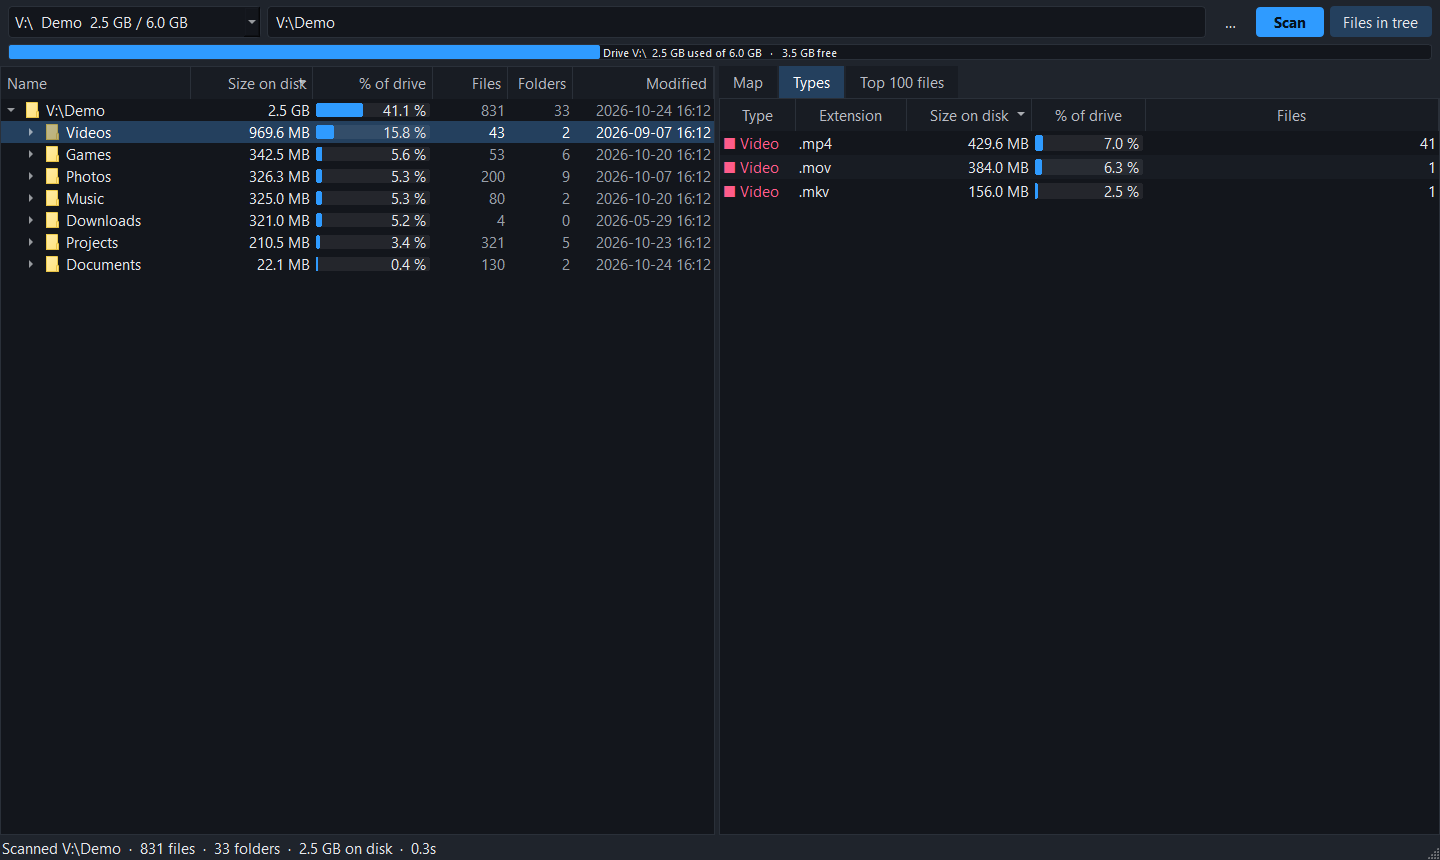
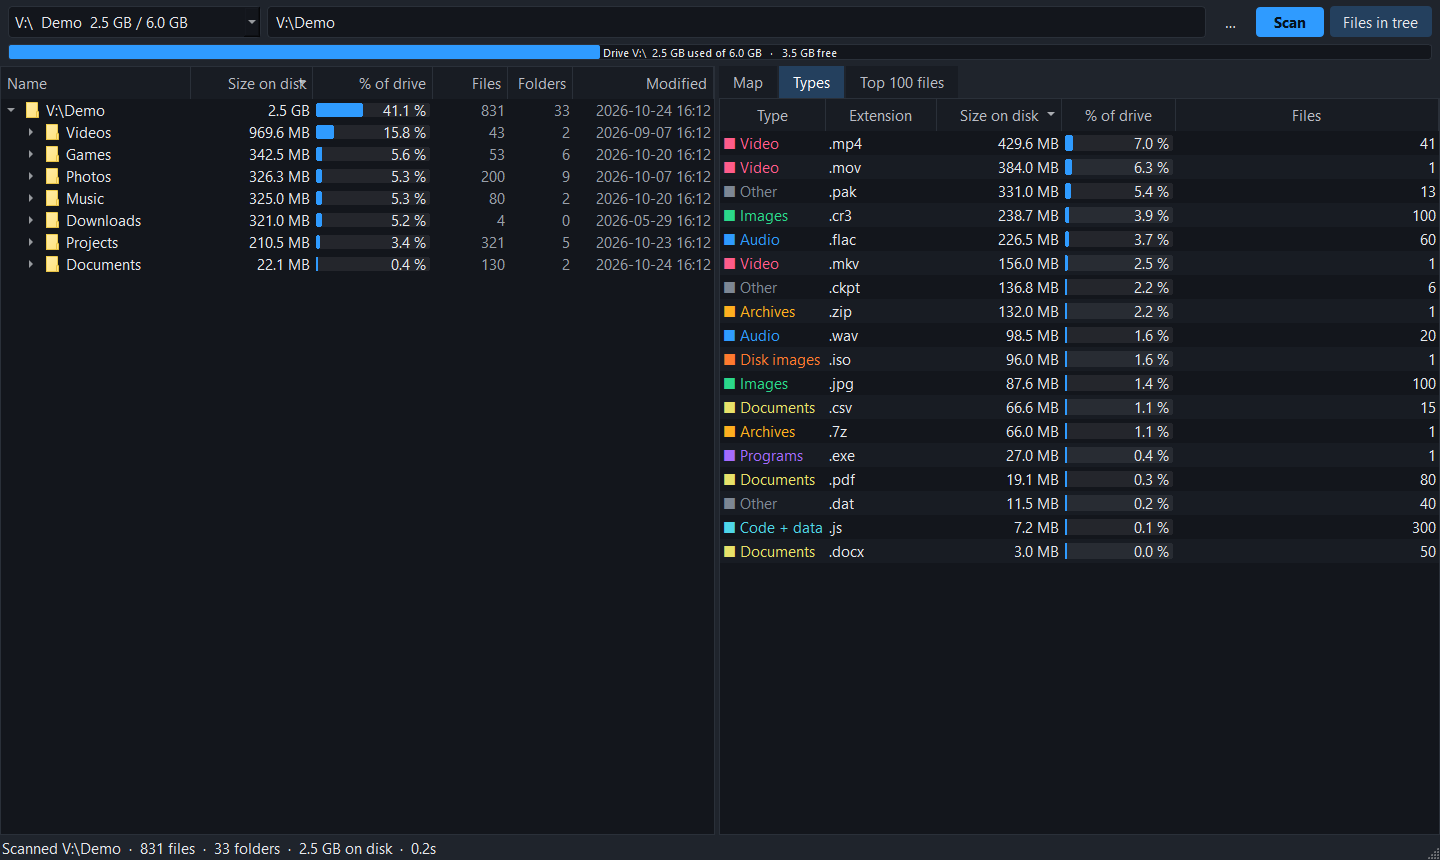
Saved Modified column widened for a whole date; Types and Top shots of the whole folder
- A tree layout saved by 1.2 has the Modified column at 120 px, which cut every
  date at "16:...". After the saved layout is restored it is widened to a whole
  date and time (a wider width the user chose is kept), as the Size column is.
- tools/screenshots.py takes the List shot last: it opens the Videos folder, and
  types.png and top.png were of that folder only. Retaken.

diff --git a/tests/app/test_list_view.py b/tests/app/test_list_view.py
@@ -120,6 +120,19 @@ def test_headers_sit_over_their_columns_and_a_date_fits(listed):
     assert w.tree.columnWidth(bf.C_MOD) >= w.tree.fontMetrics().horizontalAdvance(date)  # not cut at "16:..."
 
 
+def test_a_saved_narrow_modified_column_is_widened_to_a_whole_date(make_window):
+    w1 = make_window()
+    need = w1.mod_col
+    assert w1.tree.columnWidth(bf.C_MOD) >= need
+    w1.tree.header().resizeSection(bf.C_MOD, 120)  # the width 1.2 saved ("2026-10-24 16:...")
+    w1.settings.setValue("header2", w1.tree.header().saveState())
+    w2 = make_window()
+    assert w2.tree.columnWidth(bf.C_MOD) >= need
+    w2.tree.header().resizeSection(bf.C_MOD, need + 50)  # a wider one the user chose is kept
+    w2.settings.setValue("header2", w2.tree.header().saveState())
+    assert make_window().tree.columnWidth(bf.C_MOD) == need + 50
+
+
 def test_default_sort_is_size_descending_and_folders_are_not_forced_first(listed):
     w, _ = listed
     assert names(w) == ["z.bin", "mid", "a.bin", "tiny"]

diff --git a/tools/screenshots.py b/tools/screenshots.py
@@ -63,7 +63,8 @@ def main():
             raise SystemExit("the scan didn't finish")
         pump(app, 0.5)
         out = os.path.join(ROOT, "docs")
-        for tab, name, as_list in ((0, "map", False), (0, "list", True), (1, "types", False), (2, "top", False)):
+        # the list goes last: it opens the Videos folder, and the other shots are of the whole demo folder
+        for tab, name, as_list in ((0, "map", False), (1, "types", False), (2, "top", False), (0, "list", True)):
             w.tabs.setCurrentIndex(tab)
             (w.view_list if as_list else w.view_boxes).setChecked(True)
             if as_list:  # a folder with files and subfolders together

diff --git a/bigfoot.py b/bigfoot.py
@@ -1038,6 +1038,7 @@ class Window(QMainWindow):
             # than the "Size on disk" header needs
             hd = self.tree.header()
             hd.resizeSection(C_SIZE, max(hd.sectionSize(C_SIZE), self.size_col))
+            hd.resizeSection(C_MOD, max(hd.sectionSize(C_MOD), self.mod_col))  # (and a whole date and time)
         if self.settings.value("view") == "list":  # the view chosen last time
             self.view_list.setChecked(True)
 
